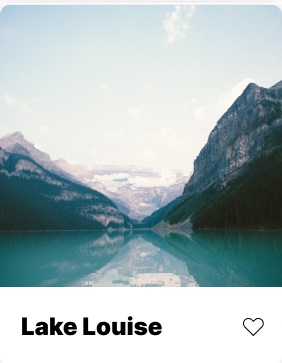
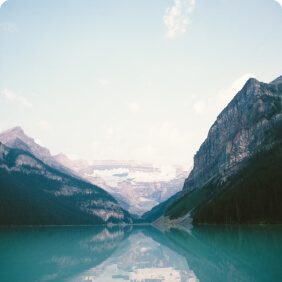
terminando elements

diff --git a/index.html b/index.html
@@ -11,9 +11,9 @@
 
 <body>
     <div class="page">
-    
+
         <section class="header">
-           <!--  <div class="popup">
+            <!--  <div class="popup">
             <div class="popup__overlay">
             <div class="popup__container">
                 <form>
@@ -28,7 +28,7 @@
                       </form>
                     </div>
                 </div>
-              <div> -->
+            <div> -->
 
             <header class="header__logo">
                 <img class="header__image " src="./images/Vector.png" alt="logo" />
@@ -51,14 +51,34 @@
             <button class="profile__addbutton"></button>
         </section>
         <section class="elements">
-            
-            <img src="./images/yosemite.jpg" alt="Yosemite Valley" class="elements__element">
-           
-            <img src="./images/lakelouis.jpg" alt="Lake Louise" class="elements__element">
-            <img src="./images/bald.jpg" alt="Bald Mountains" class="elements__element">
-            <img src="./images/latemar.jpg" alt="Latemar" class="elements__element">
-            <img src="./images/vanoise.jpg" alt="Vanoise National Park" class="elements__element">
-            <img src="./images/lagobraies.jpg" alt="Lago di Braies" class="elements__element">
+            <div class="card">
+                <img src="./images/yosemite.jpg" alt="Yosemite Valley" class="elements__element"> 
+                <div class="card-description">
+                <h3 class="card-text">Yosemite Valley</h3>
+            </div>
+            </div>
+           <!--  <div class="card">
+                <img src="./images/lakelouis.jpg" alt="Lake Louise" class="elements__element">
+                <h3 class="card-text">Lake Louise</h3>
+            </div>
+            <div class="card">
+                <img src="./images/baldmountains.jpg" alt="Bald Mountains" class="elements__element">
+                <h3 class="card-text">Bald Mountains</h3>
+
+            </div>
+
+            <div class="card">
+                <img src="./images/latemar.jpg" alt="Latemar" class="elements__element">
+                <h3 class="card-text">Latemar</h3>
+            </div>
+            <div class="card">
+                <img src="./images/vanoisenationalpark.jpg" alt="Vanoise National Park" class="elements__element">
+                <h3 class="card-text">Vanoise National Park</h3>
+            </div>
+            <div class="card">
+                <img src="./images/lagodibraies.jpg" alt="Lago di Braies" class="elements__element">
+                <h3 class="card-text">Lago di Braies</h3>
+            </div> -->
 
         </section>
         <section class="footer">

diff --git a/index.css b/index.css
@@ -14,5 +14,32 @@
 @import url(./blocks/footer/footer.css);
 @import url(./blocks/footer/__text/footer__text.css);
 
+.card{
+ margin:0;  
+ max-width: 282px; 
+ border-radius:10px;
+
+}
+.card-description{
+display: flex;
+justify-content: space-between;
+align-items: center;
+background-color: white;
+color: black;
+padding: 25px;
 
 
+}
+.card-text{
+font-size: 24px;
+font-weight: 900;
+line-height: 29px;
+max-width: 220px;
+text-align: center;
+margin:0 auto;
+padding: 0;
+text-overflow: ellipsis;
+white-space: nowrap;
+overflow: hidden;
+
+}

diff --git a/blocks/elements/__element/elements__element.css b/blocks/elements/__element/elements__element.css
@@ -1,17 +1,17 @@
 .elements__element {
     max-width: 282px;
-    max-height: 361px;
-    border-radius: 10px;
     overflow: hidden;
     width: 100%;
     height: 100%;
+    margin: 0;
+    object-fit: cover;
+
   
 }
 
 @media screen and (max-width:1279px) {
     .elements__element {
-        margin-right: 20px;
-        margin-left: 20px;
+       
     
      
 

diff --git a/blocks/elements/elements.css b/blocks/elements/elements.css
@@ -17,8 +17,7 @@
         grid-template-rows: repeat(3, 1fr);
         width: 100%;
         margin: 0 auto 0 auto;
-        padding-left: 20px;
-        padding-right: 20px;
+       
 
     }
 }
@@ -30,5 +29,7 @@
         grid-template-columns: 1fr;
         grid-template-rows: repeat(4, 1fr);
         width: 95%;
+        margin: 0 auto;
+        
     }
 }
